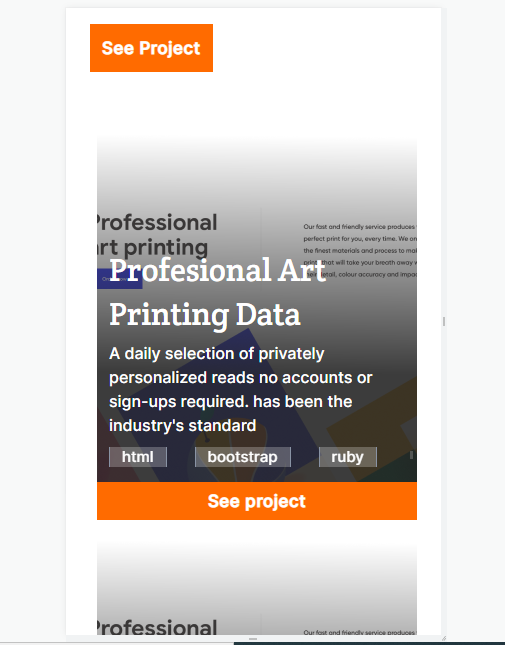
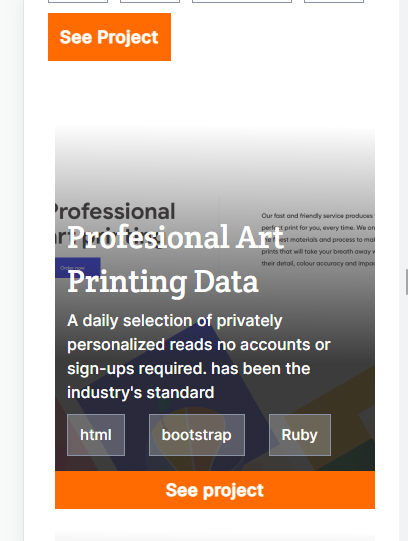
Update items with  list

diff --git a/index.html b/index.html
@@ -61,21 +61,21 @@
             <div class="feature-project">
                 
                 <div class="phimg">
-                <img src="./images/placeholder.png" alt="placeholder-img">
+                    <img src="./images/placeholder.png" alt="placeholder-img">
                 </div>
-                <h2>Multi-Post Stories</h2>
-                <p>A daily selection of privately personalized reads; no accounts or sign-ups required. has been the
-                     industry's standard dummy text ever since the 1500s, when an unknown printer took a 
-                     standard dummy text.
-                </p>
-
+                    <h2>Multi-Post Stories</h2>
+                    <p>A daily selection of privately personalized reads; no accounts or sign-ups required. has been the
+                         industry's standard dummy text ever since the 1500s, when an unknown printer took a 
+                         standard dummy text.
+                    </p>
+    
                 <div class="languages">
                     <ul>
-                    <li>css</li>
-                    <li> html</li>
-                    <li class="bootstrap">bootstrap</li>
-                    <li>Ruby</li>
-                   </ul>
+                        <li>css</li>
+                        <li> html</li>
+                        <li class="bootstrap">bootstrap</li>
+                        <li>Ruby</li>
+                       </ul>
                 </div>
 
                 <a href="#">See Project</a>
@@ -89,15 +89,16 @@
                         </p>
                         <div class="languages">
                             
-                            <a href="#" class="project-language"> html</a>
-                            <a href="#" class="project-language">bootstrap</a>
-                            <a href="#" class="project-language"> ruby</a>
+                            <ul>
+                                <li class="project-language"> html</a>
+                                <li class="project-language">bootstrap</a>
+                                <li class="project-language"> Ruby</a>
+                            </ul>
                         </div>
                         
                             <a href="#" class="project-btn">See project</a>
                         
-                        
-                     </div>
+                    </div>
                      <div class="project">
                         <h2>Profesional Art Printing Data</h2>
                         <p>A daily selection of privately personalized reads
@@ -105,9 +106,11 @@
                         </p>
                         <div class="languages">
                             
-                            <a href="#" class="project-language"> html</a>
-                            <a href="#" class="project-language">bootstrap</a>
-                            <a href="#" class="project-language"> ruby</a>
+                            <ul>
+                                <li class="project-language"> html</a>
+                                <li class="project-language">bootstrap</a>
+                                <li class="project-language"> Ruby</a>
+                            </ul>
                         </div>
                         <a href="#" class="project-btn">See project</a>
                         
@@ -119,9 +122,11 @@
                         </p>
                         <div class="languages">
                             
-                            <a href="#" class="project-language"> html</a>
-                            <a href="#" class="project-language">bootstrap</a>
-                            <a href="#" class="project-language"> ruby</a>
+                            <ul>
+                                <li class="project-language"> html</a>
+                                <li class="project-language">bootstrap</a>
+                                <li class="project-language"> Ruby</a>
+                            </ul>
                         </div>
                         <a href="#" class="project-btn">See project</a>
                         
@@ -133,9 +138,11 @@
                         </p>
                         <div class="languages">
                             
-                            <a href="#" class="project-language"> html</a>
-                            <a href="#" class="project-language">bootstrap</a>
-                            <a href="#" class="project-language"> ruby</a>
+                            <ul>
+                                <li class="project-language"> html</a>
+                                <li class="project-language">bootstrap</a>
+                                <li class="project-language"> Ruby</a>
+                            </ul>
                         </div>
                         <a href="#" class="project-btn">See project</a>
                         
@@ -147,9 +154,11 @@
                         </p>
                         <div class="languages">
                             
-                            <a href="#" class="project-language"> html</a>
-                            <a href="#" class="project-language">bootstrap</a>
-                            <a href="#" class="project-language"> ruby</a>
+                            <ul>
+                                <li class="project-language"> html</a>
+                                <li class="project-language">bootstrap</a>
+                                <li class="project-language"> Ruby</a>
+                            </ul>
                         </div>
                         <a href="#" class="project-btn">See project</a>
                         
@@ -161,9 +170,11 @@
                         </p>
                         <div class="languages">
                             
-                            <a href="#" class="project-language"> html</a>
-                            <a href="#" class="project-language">bootstrap</a>
-                            <a href="#" class="project-language"> ruby</a>
+                            <ul>
+                                <li class="project-language"> html</a>
+                                <li class="project-language">bootstrap</a>
+                                <li class="project-language"> Ruby</a>
+                            </ul>
                         </div>
                         <a href="#" class="project-btn">See project</a>
                         

diff --git a/style.css b/style.css
@@ -1,7 +1,7 @@
 * {
   margin: 0;
   padding: 0;
-  overflow: hidden;
+  overflow-x: hidden;
 }
 
 a {
